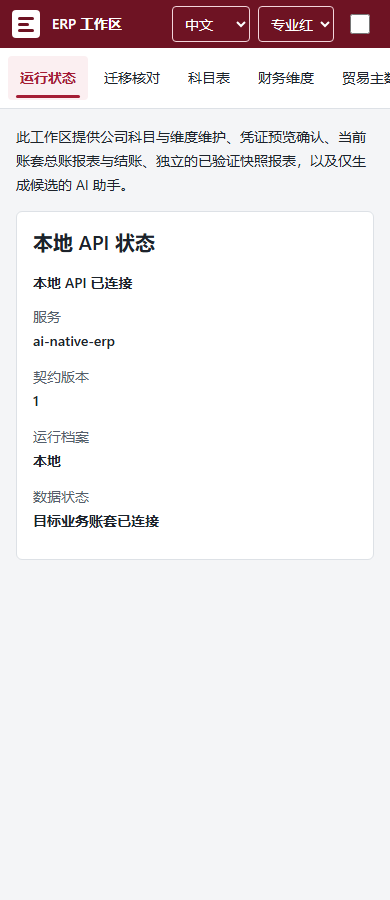
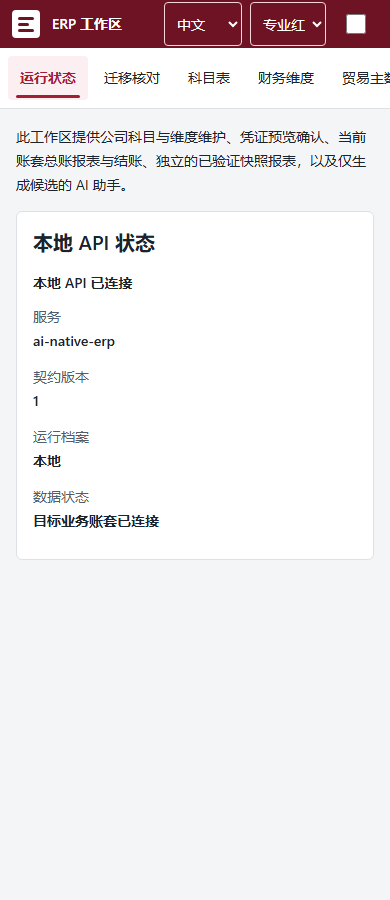
UI-01 review: 44px preference targets, UI-03 main-scroll exception
- App bar preferences: 36px on desktop, 44px on narrow screens or coarse pointers
- Unit test for target sizes; capture.mjs measures targets (incl. coarse pointer) and main scroll
- Record the invoice main-scroll exception and its acceptance check in UI-03
- Merge main fbff363

Changed region(s): [[0.5846, 0.0, 0.8615, 0.0622], [0.4308, 0.0, 0.5538, 0.0622], [0.8923, 0.0, 0.9538, 0.0311]]

diff --git a/packages/web/test/shell-targets.test.ts b/packages/web/test/shell-targets.test.ts
@@ -1,0 +1,60 @@
+import { readFileSync } from "node:fs";
+import { resolve } from "node:path";
+import { describe, expect, test } from "vitest";
+
+// jsdom cannot evaluate media queries or layout, so this checks the shell stylesheet's rules;
+// design/ui/screenshots/UI-01/capture.mjs measures the rendered boxes in real Chrome.
+const css = readFileSync(resolve(import.meta.dirname, "../src/theme/shell.css"), "utf8").replace(
+  /\/\*[\s\S]*?\*\//gu,
+  "",
+);
+
+function mediaBlock(query: string) {
+  const start = css.indexOf(`@media ${query} {`);
+  expect(start, `missing @media ${query}`).toBeGreaterThanOrEqual(0);
+  let depth = 0;
+  for (let i = css.indexOf("{", start); i < css.length; i++) {
+    if (css[i] === "{") depth++;
+    if (css[i] === "}" && --depth === 0) return css.slice(start, i + 1);
+  }
+  throw new Error(`unterminated @media ${query}`);
+}
+
+function px(source: string, selector: string, property: string) {
+  const escaped = selector.replace(/[.*+?^${}()|[\]\\]/gu, "\\$&");
+  const rule = new RegExp(`(?:^|[}\\s])${escaped}\\s*\\{([^}]*)\\}`, "gu");
+  const values = [...source.matchAll(rule)].flatMap((m) =>
+    [...(m[1] ?? "").matchAll(new RegExp(`(?:^|[;\\s])${property}:\\s*(\\d+)px`, "gu"))].map((v) =>
+      Number(v[1]),
+    ),
+  );
+  return values.at(-1);
+}
+
+describe("app bar preference target sizes (design/ui §7)", () => {
+  const base = css.slice(0, css.indexOf("@media"));
+  const touch = mediaBlock("(max-width: 760px), (pointer: coarse)");
+
+  test("desktop controls are at least 36px", () => {
+    expect(px(base, ".appbar-prefs select", "height")).toBeGreaterThanOrEqual(36);
+    expect(px(base, ".appbar-prefs .checkbox-label", "min-height")).toBeGreaterThanOrEqual(36);
+  });
+
+  test("narrow screens and coarse pointers get 44px targets for all three controls", () => {
+    expect(px(touch, ".appbar-prefs select", "height")).toBeGreaterThanOrEqual(44);
+    expect(px(touch, ".appbar-prefs .checkbox-label", "min-height")).toBeGreaterThanOrEqual(44);
+    expect(px(touch, ".appbar-prefs .checkbox-label", "min-width")).toBeGreaterThanOrEqual(44);
+  });
+
+  test("the narrow layout does not shrink the targets again", () => {
+    const narrow = mediaBlock("(max-width: 760px)");
+    for (const [selector, property] of [
+      [".appbar-prefs select", "height"],
+      [".appbar-prefs .checkbox-label", "min-height"],
+      [".appbar-prefs .checkbox-label", "min-width"],
+    ] as const) {
+      const value = px(narrow, selector, property);
+      if (value !== undefined) expect(value).toBeGreaterThanOrEqual(44);
+    }
+  });
+});

diff --git a/packages/web/src/theme/shell.css b/packages/web/src/theme/shell.css
@@ -92,7 +92,7 @@
 .appbar-prefs select {
   width: auto;
   min-height: 0;
-  height: 30px;
+  height: 36px;
   padding: 0 var(--space-1) 0 var(--space-2);
   border: 1px solid var(--color-appbar-muted);
   border-radius: var(--radius-sm);
@@ -107,13 +107,33 @@
   display: flex;
   align-items: center;
   gap: var(--space-2);
-  min-height: 0;
+  min-height: 36px;
+  cursor: pointer;
 }
 .appbar-prefs input[type="checkbox"] {
   width: 16px;
   height: 16px;
   margin: 0;
   accent-color: var(--color-on-appbar);
+}
+
+/* 目标尺寸（design/ui §7）：桌面 36px；窄屏或粗指针 44px。整个复选项标签都是点击区域。 */
+@media (max-width: 760px), (pointer: coarse) {
+  :root {
+    --control-h: 44px;
+  }
+  .appbar-prefs select {
+    height: 44px;
+  }
+  .appbar-prefs .checkbox-label {
+    min-width: 44px;
+    min-height: 44px;
+    justify-content: center;
+  }
+  .appbar-prefs input[type="checkbox"] {
+    width: 20px;
+    height: 20px;
+  }
 }
 
 /* ---------- 导航 + 内容 ---------- */
@@ -192,16 +212,14 @@ main {
   min-width: 0;
   max-width: calc(var(--content-max) + 2 * var(--space-8));
   padding: var(--space-5) var(--space-8) var(--space-10);
-  /* 页面内容超宽时只在 main 内横向滚动，根页面不溢出 */
+  /* 页面内容超宽时只在 main 内横向滚动，根页面不溢出。
+     暂留例外：发票行表格尚无自身滚动容器，由 UI-03 消除（见 design/tasks/UI-03-trade-invoices.md）。 */
   overflow-x: auto;
   overflow-wrap: anywhere;
 }
 
 /* ---------- 窄屏 ---------- */
 @media (max-width: 760px) {
-  :root {
-    --control-h: 44px;
-  }
   .appbar {
     gap: var(--space-3);
     padding: 0 var(--space-3);
@@ -220,18 +238,6 @@ main {
     overflow: hidden;
     clip-path: inset(50%);
     white-space: nowrap;
-  }
-  .appbar-prefs select {
-    height: 36px;
-  }
-  .appbar-prefs .checkbox-label {
-    min-width: 36px;
-    min-height: 36px;
-    justify-content: center;
-  }
-  .appbar-prefs input[type="checkbox"] {
-    width: 20px;
-    height: 20px;
   }
   .shell {
     grid-template-columns: minmax(0, 1fr);

diff --git a/design/tasks/UI-03-trade-invoices.md b/design/tasks/UI-03-trade-invoices.md
@@ -8,6 +8,15 @@
 
 问题 P1、P4、P5、P6、P8：发票页横向溢出（v0.2.0 Demo 发票截图为整页 2066px 宽，见 [改前](../ui/screenshots/before/trade-invoices.png)），标签与输入行内挤压，三个操作按钮同样醒目。
 
+### UI-01 遗留例外（本任务负责消除）
+
+UI-01（#62）只改外壳。它让 `main` 设 `overflow-x: auto`，所以根页面不再溢出，但发票页的超宽内容目前**由整个 `main` 横向滚动**，而不是由表格自身容器滚动。这是暂留的例外，不符合通用验收“宽表在自身容器内滚动”。UI-01 截图脚本实测（`design/ui/screenshots/UI-01/capture.mjs`，fbff363 合入后的 UI-01 head）：
+
+- 撑宽的是 `fieldset.form-grid`（发票录入，约 1554px）：其中的发票行 `<table>`（`TradeInvoices.tsx` 中 `aria-label={t("tinv.lines")}`）直接放在 fieldset 内，**没有自身滚动容器**；行内标签与输入也互相挤压。
+- `main` 的 `scrollWidth/clientWidth`：1440 宽为 1588/1192，390 宽为 1572/390。
+- 已过账发票表格在自身的 `section.accounts-scroll` 内滚动（390 宽为 732/358 与 865/358），这一部分已符合要求。
+- 运行状态、往来未结项与账龄两页 `main` 不滚动（1192/1192、390/390）。
+
 ## 范围
 
 - `TradeInvoices.tsx`：页头 + 公司；操作栏（“确认过账”主按钮、“预览”次按钮、“放弃草稿”轻按钮，加“预览为最新 / 已过期”状态徽标，状态来自现有 stale 判断）；FastTab“发票录入”（`form-grid`）、“发票行”（结构化行表格，“删除行”轻量小按钮，“新增行”次按钮并以 `kbd` 显示 `Alt+Shift+N`）、“计算明细”（KPI + facts + 过账预览与订单匹配并排）；“已过账发票”卡片列表。
@@ -19,5 +28,6 @@
 
 1. 满足 [UI-1 通用验收标准](README.md#ui-1界面逐步改进)。
 2. 截图：草稿、预览后、预览过期、过账成功四个状态改前 / 改后（中文 + 红、英文 + 绿，1440 与 390 宽）；1440 宽下页面**无横向滚动条**（`document.documentElement.scrollWidth <= 1440`，写入 E2E 外的组件测试或截图脚本断言）。
+   - **消除 UI-01 例外**：1440 与 390 宽下都断言 `main.scrollWidth <= main.clientWidth`，不能只查根节点宽度。发票行表格等宽表必须放进自身滚动容器（`overflow-x: auto`），并断言该容器 `scrollWidth > clientWidth` 时可以在容器内横向滚动。删除 `capture.mjs` 中的 `mainScrollException` 豁免后，截图脚本仍应全部 PASS。
 3. `trade-invoices.test.tsx` 原有断言不删改；四个 `trade-gui-*.slow.test.ts` 的发票键盘路径不改即通过。
 4. **快捷键按钮的可访问名称不变**：现有名称来自 `tinv.addLine`，即“新增行（Alt+Shift+N）/ Add line (Alt+Shift+N)”，已含快捷键。另行渲染 `kbd` 时，按钮的计算名称必须与该 label 完全一致，例如 label 文本拆成可见文字 + `kbd`，不另加 `aria-label`，也不重复朗读。可额外加 `aria-keyshortcuts="Alt+Shift+N"`。新增单测断言 `getByRole("button", { name: label("tinv.addLine") })` 精确匹配。不得通过修改旧断言过关。
